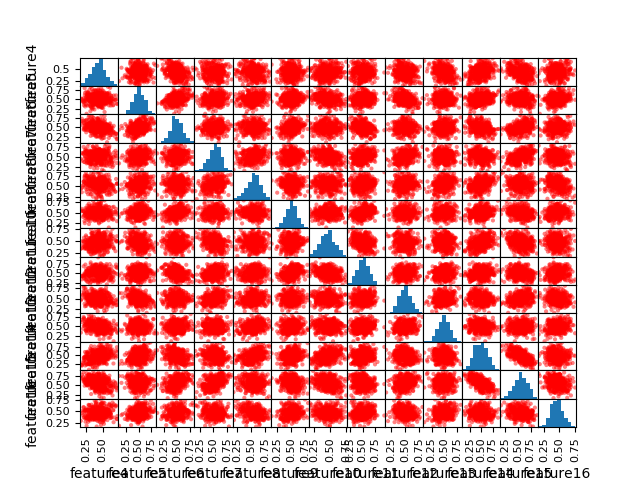
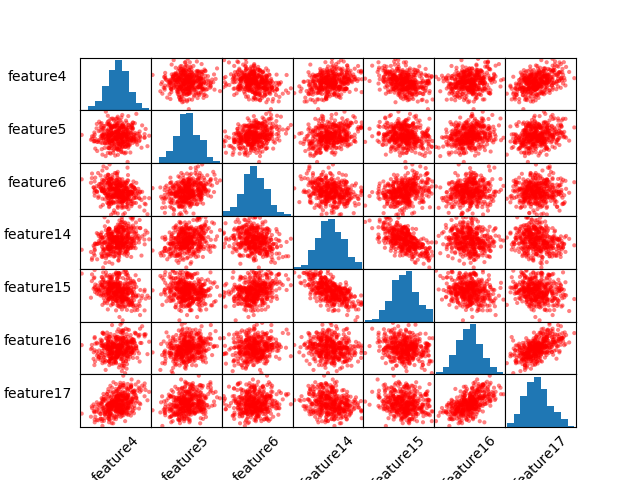
scatter matrix  has better axes and labels now

diff --git a/src/scatter_matrix.py b/src/scatter_matrix.py
@@ -5,12 +5,20 @@ from pandas.plotting import scatter_matrix
 from loader import load_training, pull_features, pull_features_and_era_label
 
 
+def update_figure(matrix_fig):
+    # rotate x-axis labels 45 degrees and y-axis to horizontal
+    matrix_fig.xaxis.label.set_rotation(45)
+    matrix_fig.yaxis.label.set_rotation(0)
+    matrix_fig.get_yaxis().set_label_coords(-0.6, 0.5)
+    # switch off ticks
+    matrix_fig.set_xticks(())
+    matrix_fig.set_yticks(())
+
+
 def create_scatter_matrix(dataset, filename, color='red'):
     fig, ax = plt.subplots()
-    scatter_matrix(dataset, color=color, ax=ax)
-    # ax.axes.
-    # plt.xticks(rotation='vertical')
-    # plt.yticks(rotation='horizontal')
+    matrix = scatter_matrix(dataset, color=color, ax=ax)
+    [update_figure(m) for m in matrix.reshape(-1)]
     plt.savefig(filename)
     plt.close(fig)
 
@@ -31,6 +39,8 @@ training_data = load_training()
 
 scatter_matrix_variation(
     pull_features(training_data, target_bernie_value=0, for_era=1),
-    ['feature' + str(feature) for feature in range(4, 17)],
+    ['feature4', 'feature5', 'feature6', 'feature14',
+        'feature15', 'feature16', 'feature17'],
+    # ['feature' + str(feature) for feature in range(4, 17)],
     '_era1_4_17',
     frac=1.0)
